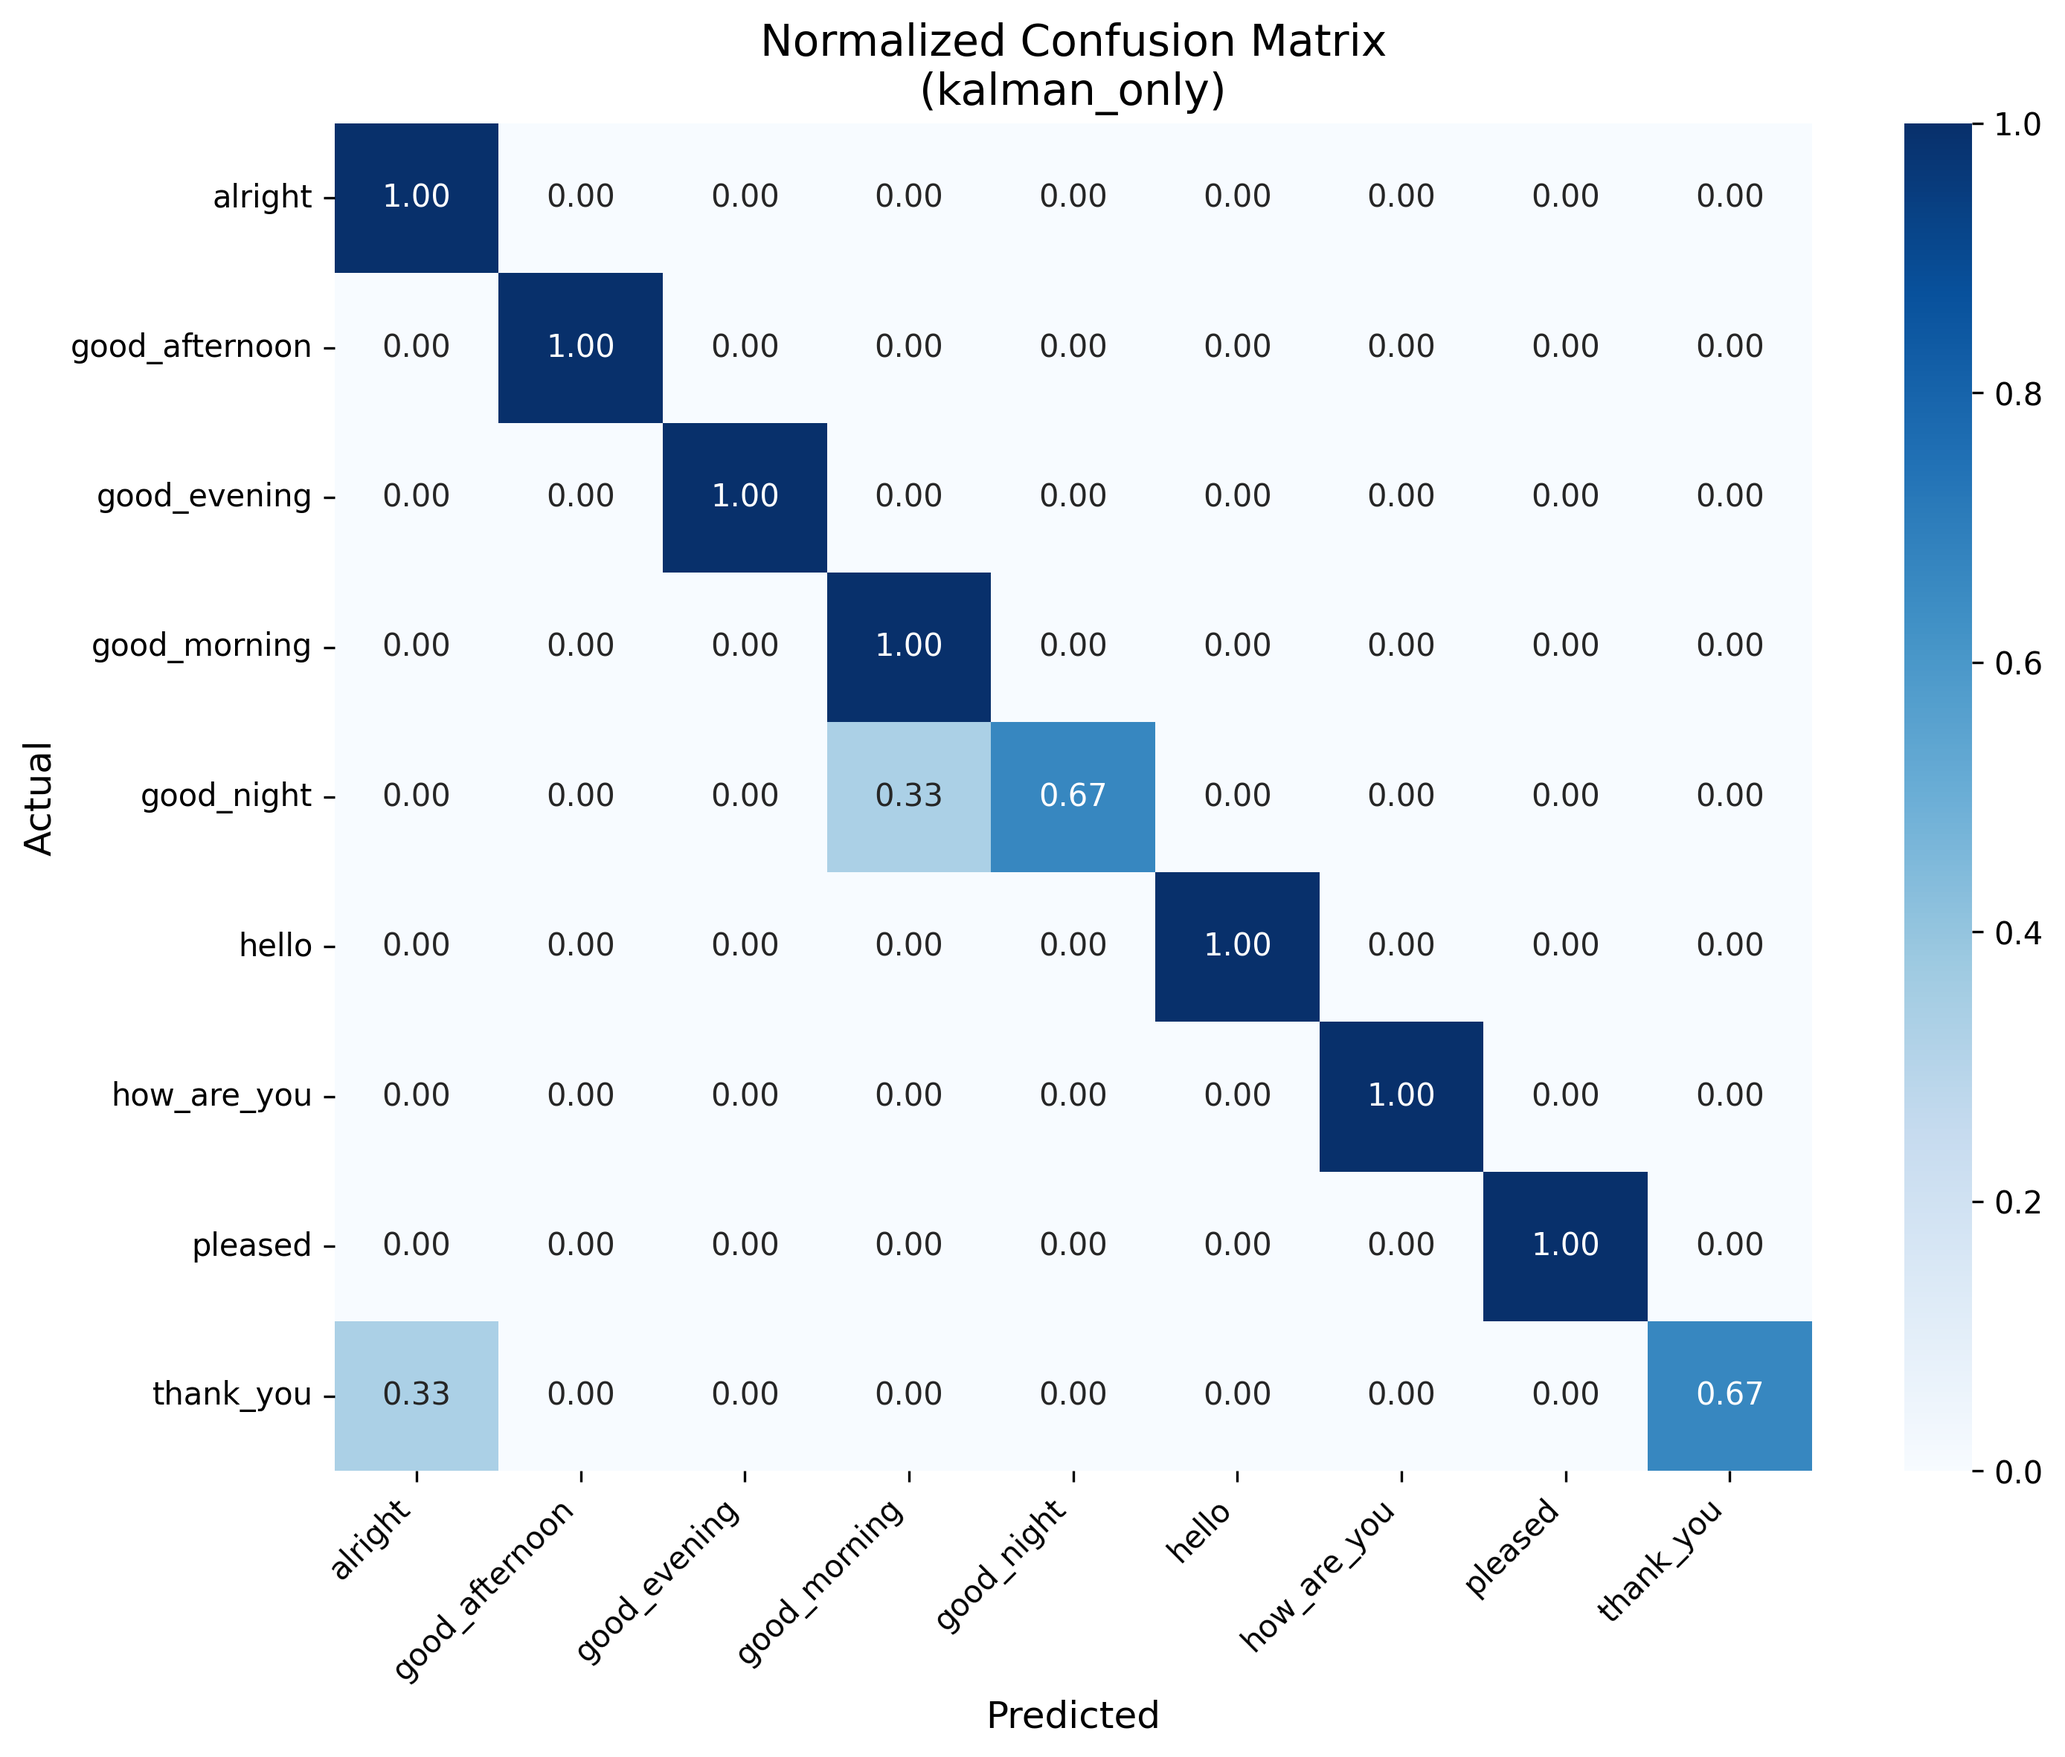
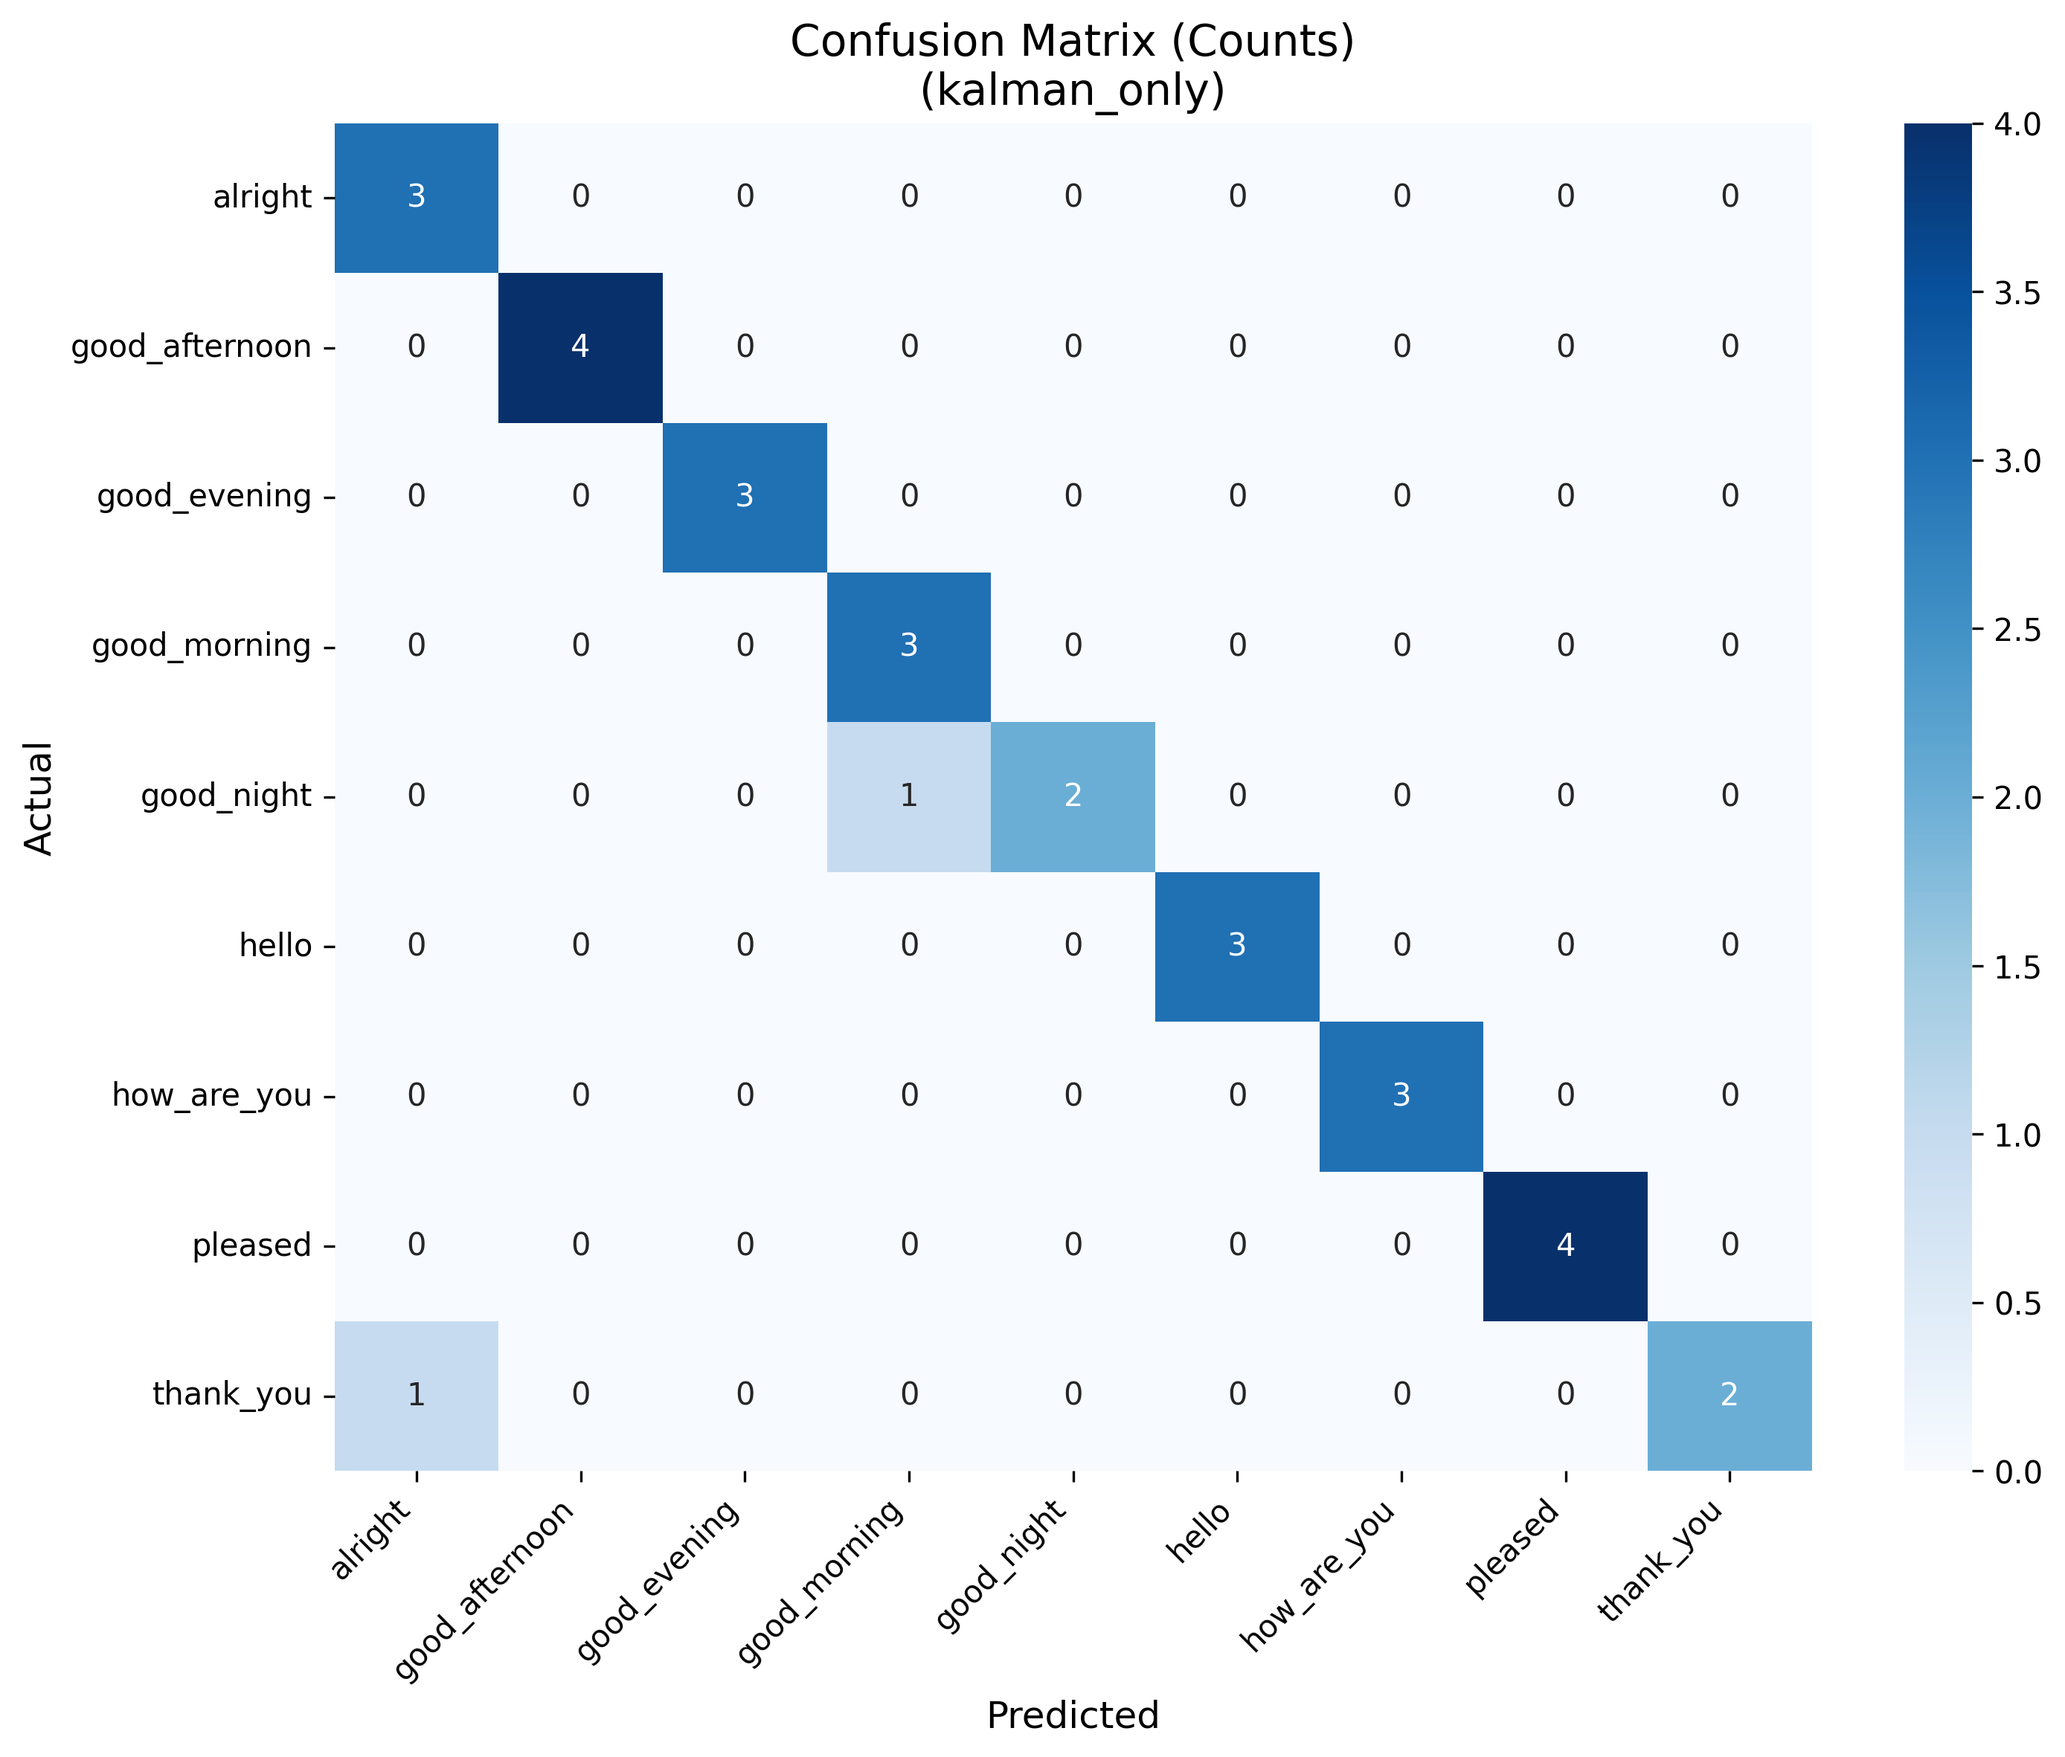
Results added

diff --git a/evaluate.py b/evaluate.py
@@ -112,6 +112,25 @@ def plot_confusion_matrix(y_true, y_pred, class_names, save_dir, experiment_name
     print(f"  ✓ Confusion matrix saved")
 
 
+def plot_normalized_confusion_matrix(y_true, y_pred, class_names, save_dir, experiment_name):
+    """Plot normalized confusion matrix."""
+    cm = confusion_matrix(y_true, y_pred, normalize='true')
+
+    plt.figure(figsize=(10, 8))
+    # Plot percentage formatting
+    sns.heatmap(cm, annot=True, fmt='.2f', cmap='Blues',
+                xticklabels=class_names, yticklabels=class_names)
+    plt.title(f'Normalized Confusion Matrix\n({experiment_name})', fontsize=14)
+    plt.xlabel('Predicted', fontsize=12)
+    plt.ylabel('Actual', fontsize=12)
+    plt.xticks(rotation=45, ha='right')
+    plt.yticks(rotation=0)
+    plt.tight_layout()
+    plt.savefig(os.path.join(save_dir, 'confusion_matrix_normalized.png'), dpi=300, bbox_inches='tight')
+    plt.close()
+    print(f"  ✓ Normalized confusion matrix saved")
+
+
 def plot_roc_curves(y_true, y_probs, class_names, save_dir, experiment_name):
     """Plot one-vs-rest ROC curves + mean AUC."""
     # Binarize labels
@@ -207,6 +226,7 @@ def evaluate_experiment(experiment_name):
 
     # 2. Confusion matrix
     plot_confusion_matrix(y_true, y_pred, class_names, save_dir, experiment_name)
+    plot_normalized_confusion_matrix(y_true, y_pred, class_names, save_dir, experiment_name)
 
     # 3. Classification report
     report = classification_report(y_true, y_pred, target_names=class_names,
